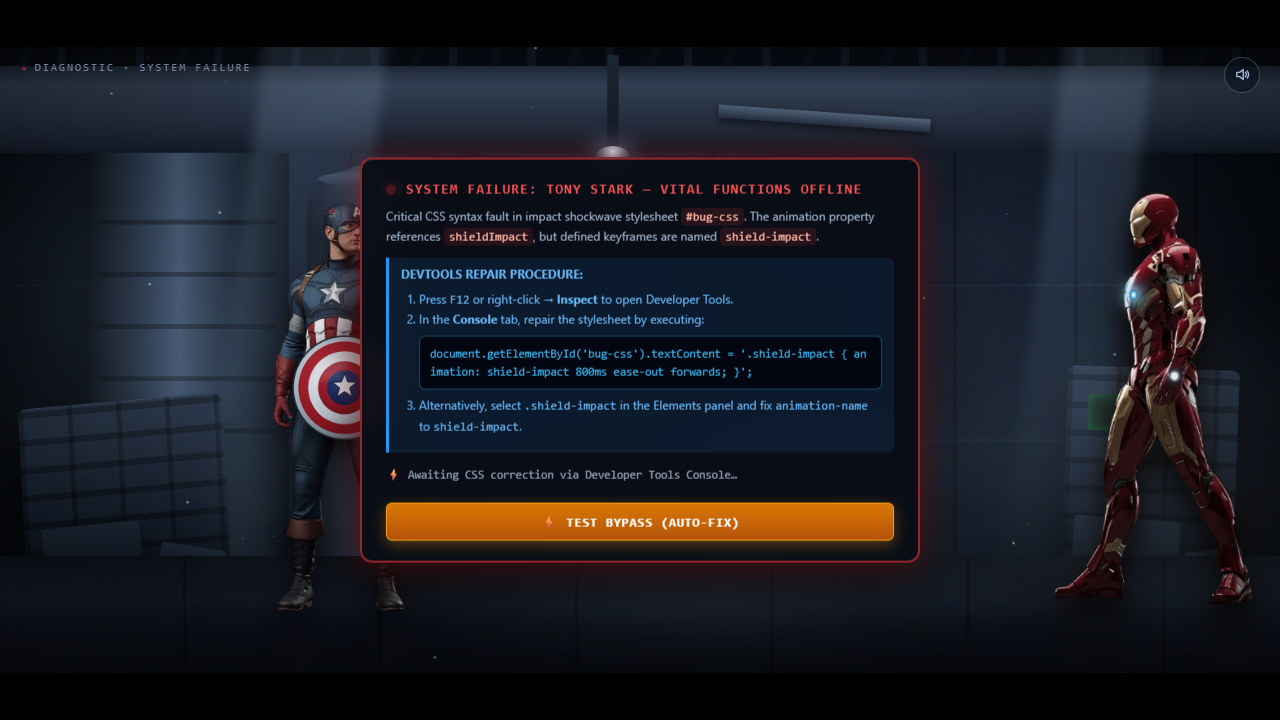
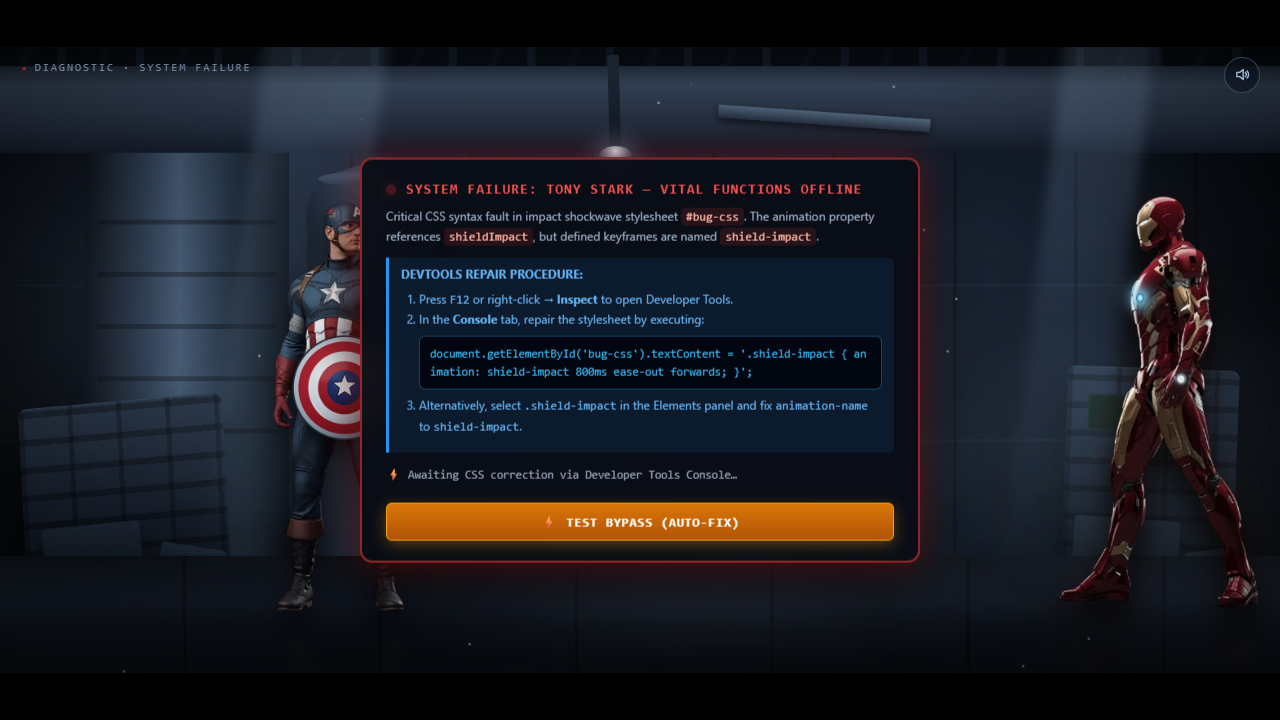
feat(civil-war): ground shield on floor and vanish Captain America at finale

Changed region(s): [[0.8125, 0.275, 0.9688, 0.825], [0.9375, 0.7639, 1.0, 0.825]]

diff --git a/civil war/civilwar.html b/civil war/civilwar.html
@@ -1315,6 +1315,38 @@
             animation: shield-final-throw .55s cubic-bezier(.22, .75, .35, 1) forwards;
         }
 
+        @keyframes shield-drop-ground {
+            0% {
+                transform: translate(292px, 142px) rotateY(-55deg) rotateZ(18deg);
+                opacity: 1;
+            }
+            40% {
+                transform: translate(280px, 480px) rotateY(-20deg) rotateZ(45deg);
+            }
+            65% {
+                transform: translate(270px, 518px) rotateX(65deg) rotateZ(20deg);
+            }
+            80% {
+                transform: translate(265px, 508px) rotateX(62deg) rotateZ(24deg);
+            }
+            100% {
+                transform: translate(265px, 518px) rotateX(66deg) rotateZ(22deg);
+            }
+        }
+
+        #shield.grounded {
+            animation: shield-drop-ground 1.1s cubic-bezier(.25, .8, .25, 1) forwards !important;
+            filter: drop-shadow(0 15px 14px rgba(0, 0, 0, 0.88)) drop-shadow(0 4px 6px rgba(0, 0, 0, 0.95)) !important;
+        }
+
+        #cap.vanished,
+        #cap-refl.vanished {
+            opacity: 0 !important;
+            filter: blur(6px) !important;
+            transition: opacity 2.6s cubic-bezier(.4, 0, .2, 1), filter 2.6s cubic-bezier(.4, 0, .2, 1) !important;
+            pointer-events: none !important;
+        }
+
         @keyframes press-jit {
             from {
                 transform: translate(0, 0)
@@ -3020,17 +3052,33 @@
                 im('im-revived');
 
                 // 3. Display recovery announcement
-                caption('TONY STARK — VITAL FUNCTIONS RESTORED', 4.0);
+                caption('TONY STARK — VITAL FUNCTIONS RESTORED', 2.8);
                 flourish('VITAL FUNCTIONS RESTORED');
 
-                // 4. Transition camera to final composition showing Cap and Tony
+                // 4. Shield comes off and gets grounded
                 later(() => {
-                    setShot('finalWide', { dur: 2600 });
-                    titleEl.classList.add('on');
-                }, 1400);
+                    caption("That shield doesn't belong to you! My father made that shield!", 3.0, 'STARK');
+                    shield.classList.remove('at-stuck');
+                    shield.classList.add('grounded');
+                    A.clank();
+                    dust(1090, 780, 5);
+                    shake('shake-s');
+                }, 2200);
 
-                // 5. Completion screen with PLAY AGAIN button
-                later(finish, 4200);
+                // 5. Captain America vanishes into the shadows
+                later(() => {
+                    capEl.classList.add('vanished');
+                    capRefl.classList.add('vanished');
+                    caption('Steve Rogers leaves the shield behind and fades into the shadows...', 3.5);
+                    setShot('aftermath', { dur: 3600 });
+                }, 4000);
+
+                // 6. Title and completion screen
+                later(() => {
+                    titleEl.classList.add('on');
+                }, 6000);
+
+                later(finish, 7500);
             }
 
             /* ---------------------------------------------------------------------
@@ -3131,11 +3179,12 @@
                 });
 
                 cap('cap-idle'); im('im-enter');
-                capEl.classList.remove('cap-quiet');
+                capEl.classList.remove('cap-quiet', 'vanished');
+                if (capRefl) capRefl.classList.remove('vanished');
                 imEl.className = 'chr im-enter';
                 moveCapTo(0, 0); moveImTo(IM_IN, 0);
 
-                shield.className = ''; shield.style.transform = ''; shieldInner.classList.remove('press');
+                shield.className = ''; shield.style.transform = ''; shieldInner.classList.remove('press'); shield.classList.remove('grounded');
 
                 fx.classList.remove('impact-live');
                 beam.classList.remove('firing'); beamHit.classList.remove('on');

diff --git a/civil war/scripts/verify_css_challenge.js b/civil war/scripts/verify_css_challenge.js
@@ -107,18 +107,60 @@ const fs = require('fs');
     }
 
     const finalResult = await page.evaluate(() => {
+        const shieldEl = document.getElementById('shield');
+        const capEl = document.getElementById('cap');
+        const capRefl = document.getElementById('cap-refl');
         return {
             phase: window.S.phase,
             resultText: document.getElementById('st-result')?.textContent,
-            completeVisible: document.getElementById('complete')?.classList?.contains('on')
+            completeVisible: document.getElementById('complete')?.classList?.contains('on'),
+            shieldGrounded: shieldEl.classList.contains('grounded'),
+            capVanished: capEl.classList.contains('vanished'),
+            capOpacity: window.getComputedStyle(capEl).opacity,
+            capReflVanished: capRefl?.classList.contains('vanished')
         };
     });
-    console.log('Final completion state:', finalResult);
+    console.log('Final completion state & aftermath check:', finalResult);
 
     if (finalResult.phase !== 'COMPLETE' && finalResult.phase !== 'REVIVED') {
         throw new Error('Game did not complete after revival');
     }
-    console.log('✓ Sequence completed successfully!');
+    if (!finalResult.shieldGrounded) {
+        throw new Error('Shield did not receive the "grounded" class!');
+    }
+    if (!finalResult.capVanished) {
+        throw new Error('Captain America did not receive the "vanished" class!');
+    }
+    if (parseFloat(finalResult.capOpacity) > 0.1) {
+        throw new Error(`Captain America opacity expected 0, but got ${finalResult.capOpacity}`);
+    }
+    console.log('✓ Shield is grounded on floor and Captain America has vanished into shadows!');
+
+    // Capture screenshot of the aftermath scene with grounded shield and vanished Cap
+    const aftermathScreenshotPath = path.resolve(__dirname, 'shield_grounded_cap_vanished.png');
+    await page.screenshot({ path: aftermathScreenshotPath });
+    console.log('Saved aftermath screenshot to:', aftermathScreenshotPath);
+
+    // Step 6: Test Reset
+    console.log('\n[6/6] Testing resetAll() to ensure full replayability...');
+    await page.evaluate(() => {
+        document.getElementById('restart-btn').click();
+    });
+    await new Promise(r => setTimeout(r, 600));
+    const resetState = await page.evaluate(() => {
+        const shieldEl = document.getElementById('shield');
+        const capEl = document.getElementById('cap');
+        return {
+            phase: window.S.phase,
+            shieldGrounded: shieldEl.classList.contains('grounded'),
+            capVanished: capEl.classList.contains('vanished')
+        };
+    });
+    console.log('State after resetAll:', resetState);
+    if (resetState.shieldGrounded || resetState.capVanished) {
+        throw new Error('Reset failed to restore shield or Cap state!');
+    }
+    console.log('✓ Reset cleanly restored Cap and Shield.');
 
     await browser.close();
     console.log('\n========================================');
